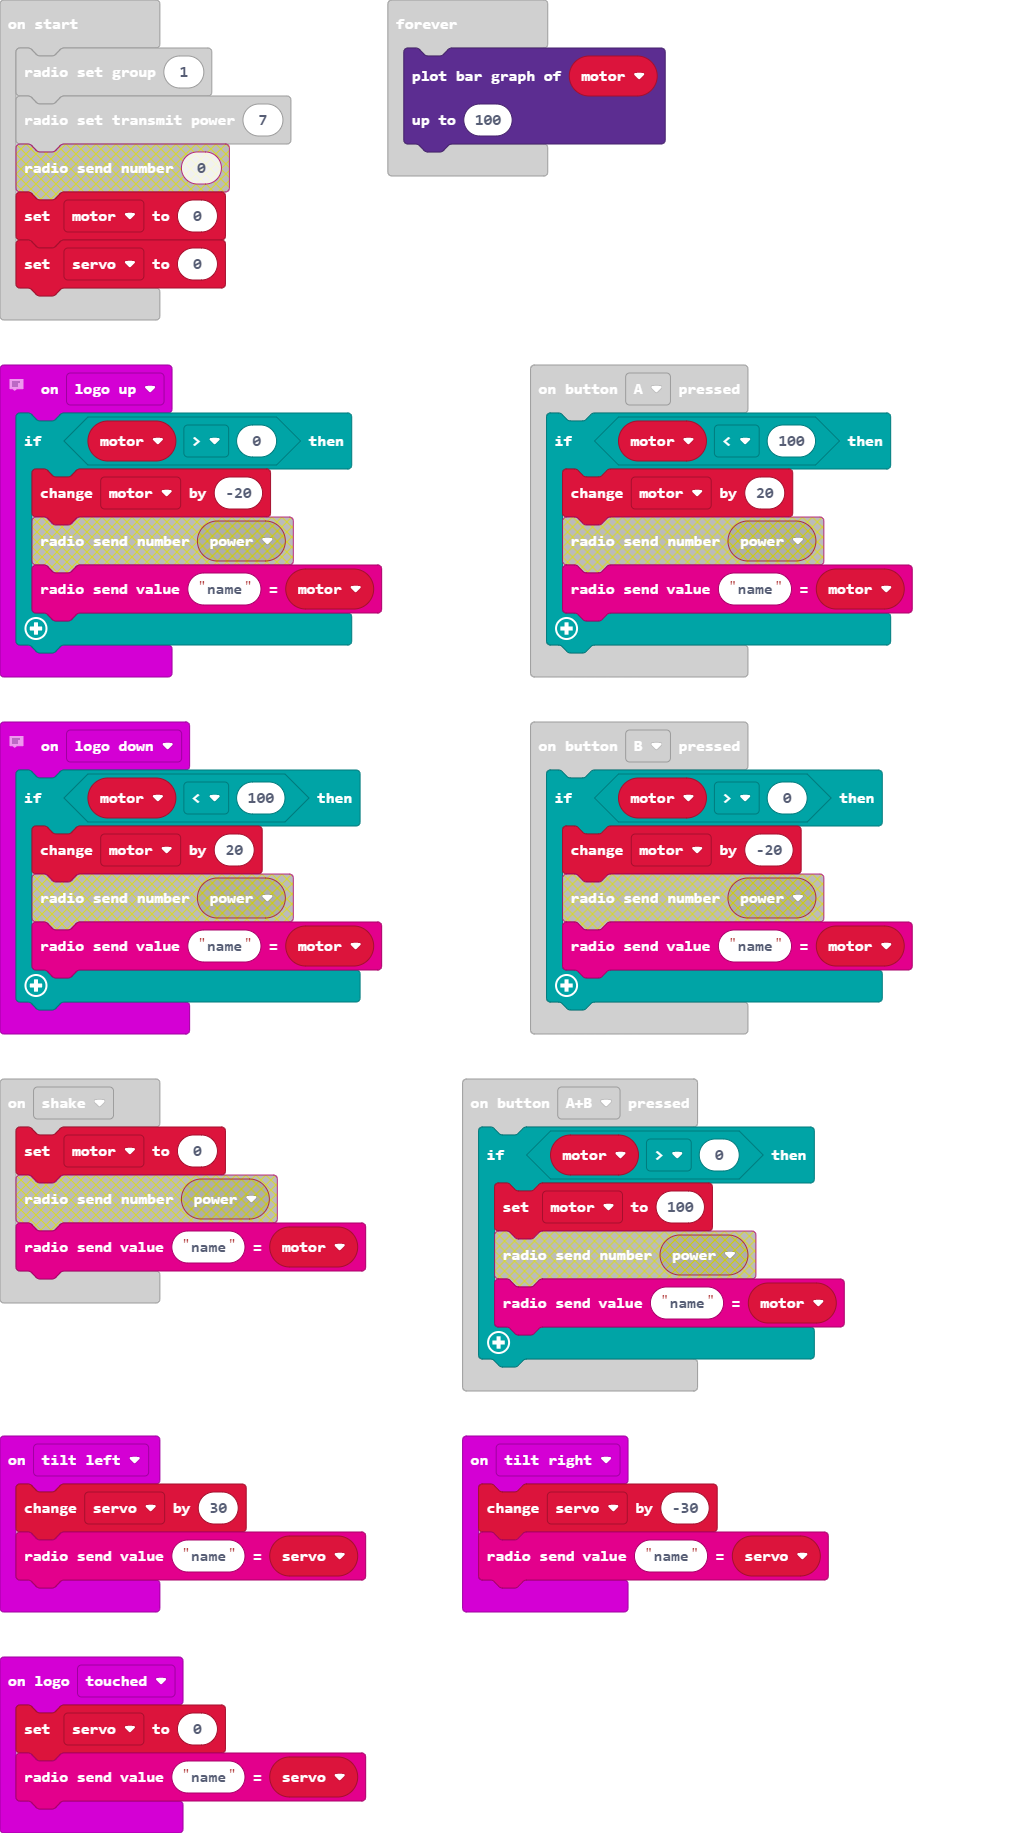
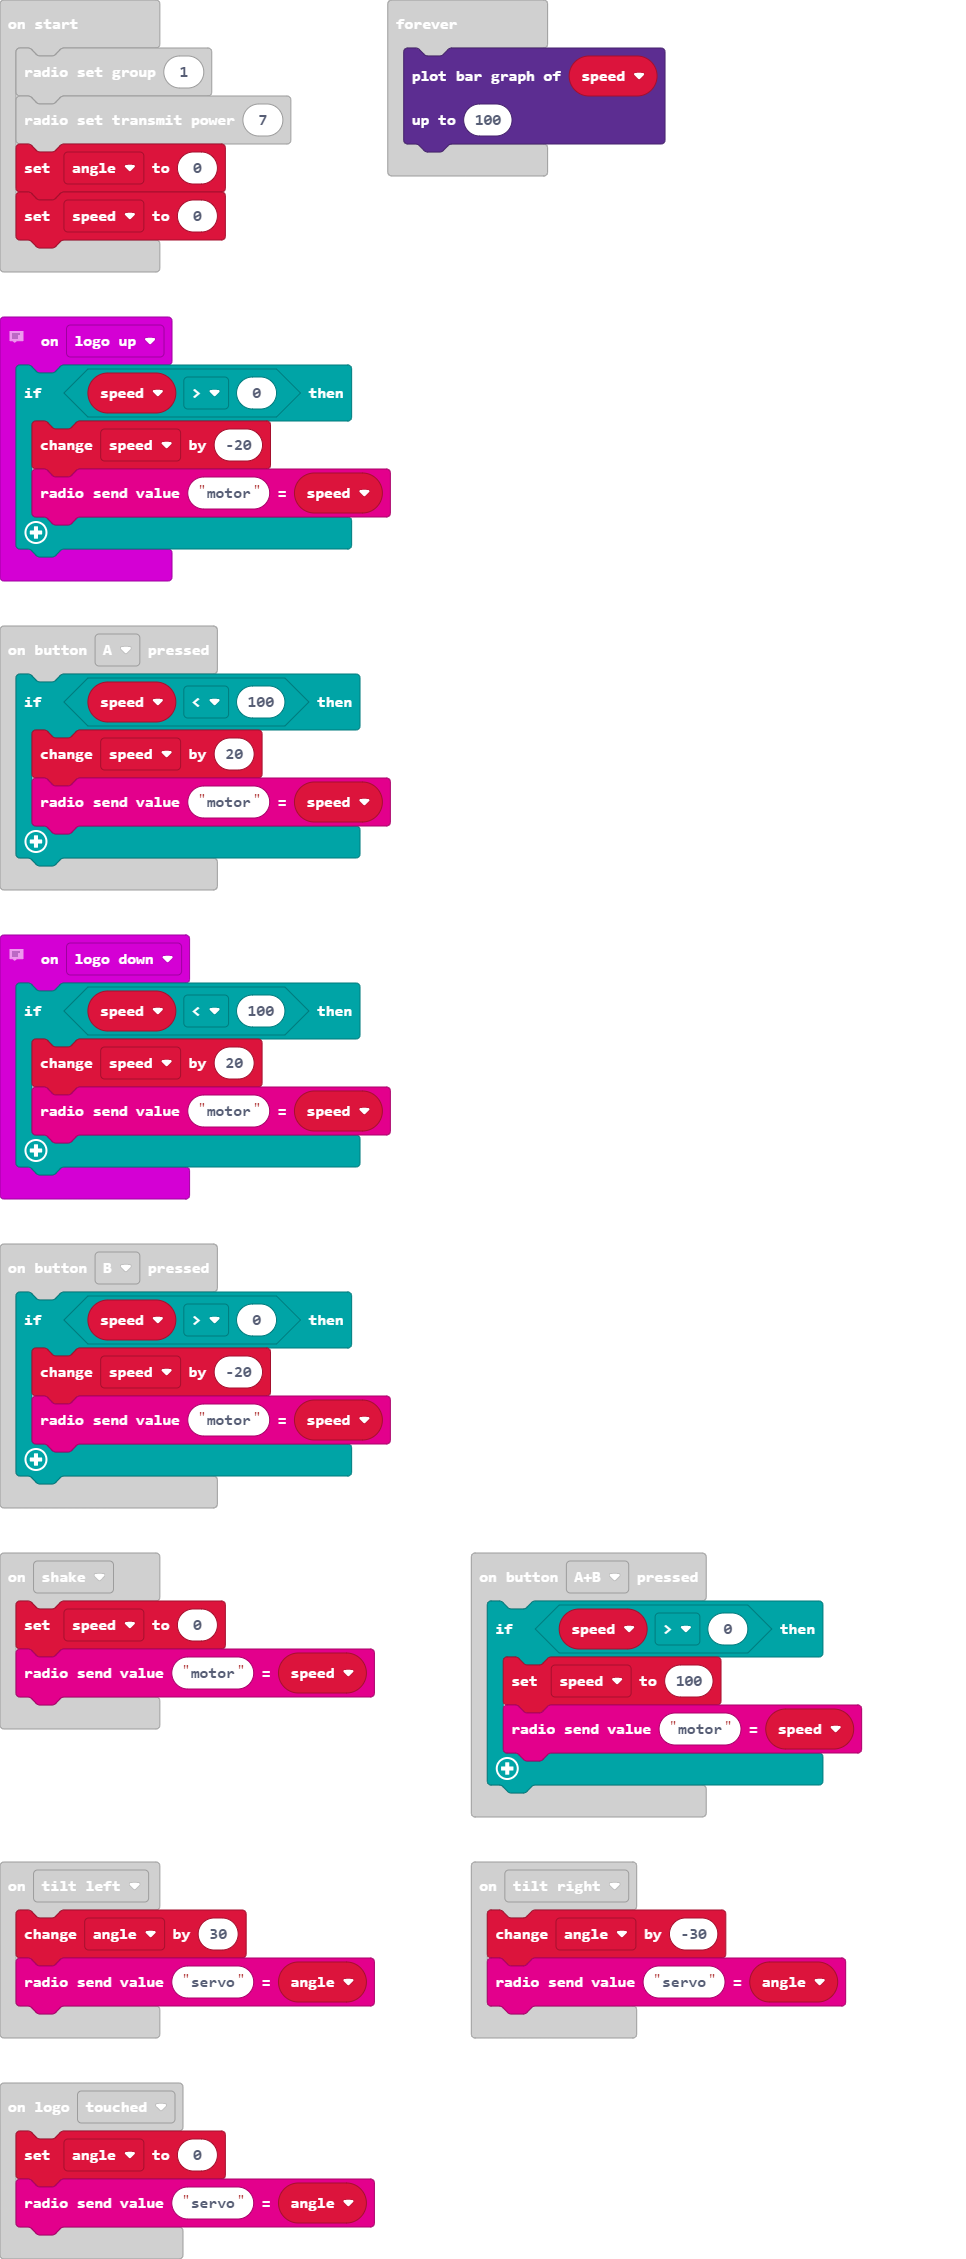
Update main.blocks, main.ts

diff --git a/main.ts b/main.ts
@@ -1,60 +1,60 @@
 input.onButtonPressed(Button.A, function () {
-    if (motor < 100) {
-        motor += 20
-        radio.sendValue("name", motor)
+    if (speed < 100) {
+        speed += 20
+        radio.sendValue("motor", speed)
     }
 })
 // south
 input.onGesture(Gesture.LogoUp, function () {
-    if (motor > 0) {
-        motor += -20
-        radio.sendValue("name", motor)
+    if (speed > 0) {
+        speed += -20
+        radio.sendValue("motor", speed)
     }
 })
 input.onGesture(Gesture.TiltLeft, function () {
-    servo += 30
-    radio.sendValue("name", servo)
+    angle += 30
+    radio.sendValue("servo", angle)
 })
 input.onButtonPressed(Button.AB, function () {
-    if (motor > 0) {
-        motor = 100
-        radio.sendValue("name", motor)
+    if (speed > 0) {
+        speed = 100
+        radio.sendValue("motor", speed)
     }
 })
 input.onButtonPressed(Button.B, function () {
-    if (motor > 0) {
-        motor += -20
-        radio.sendValue("name", motor)
+    if (speed > 0) {
+        speed += -20
+        radio.sendValue("motor", speed)
     }
 })
 input.onGesture(Gesture.Shake, function () {
-    motor = 0
-    radio.sendValue("name", motor)
+    speed = 0
+    radio.sendValue("motor", speed)
 })
 input.onGesture(Gesture.TiltRight, function () {
-    servo += -30
-    radio.sendValue("name", servo)
+    angle += -30
+    radio.sendValue("servo", angle)
 })
 // north
 input.onGesture(Gesture.LogoDown, function () {
-    if (motor < 100) {
-        motor += 20
-        radio.sendValue("name", motor)
+    if (speed < 100) {
+        speed += 20
+        radio.sendValue("motor", speed)
     }
 })
 input.onLogoEvent(TouchButtonEvent.Touched, function () {
-    servo = 0
-    radio.sendValue("name", servo)
+    angle = 0
+    radio.sendValue("servo", angle)
 })
-let motor = 0
-let servo = 0
+let speed = 0
+let angle = 0
 radio.setGroup(1)
 radio.setTransmitPower(7)
-servo = 0
-motor = 0
+angle = 0
+speed = 0
 basic.forever(function () {
     led.plotBarGraph(
-    motor,
+    speed,
     100
     )
 })
